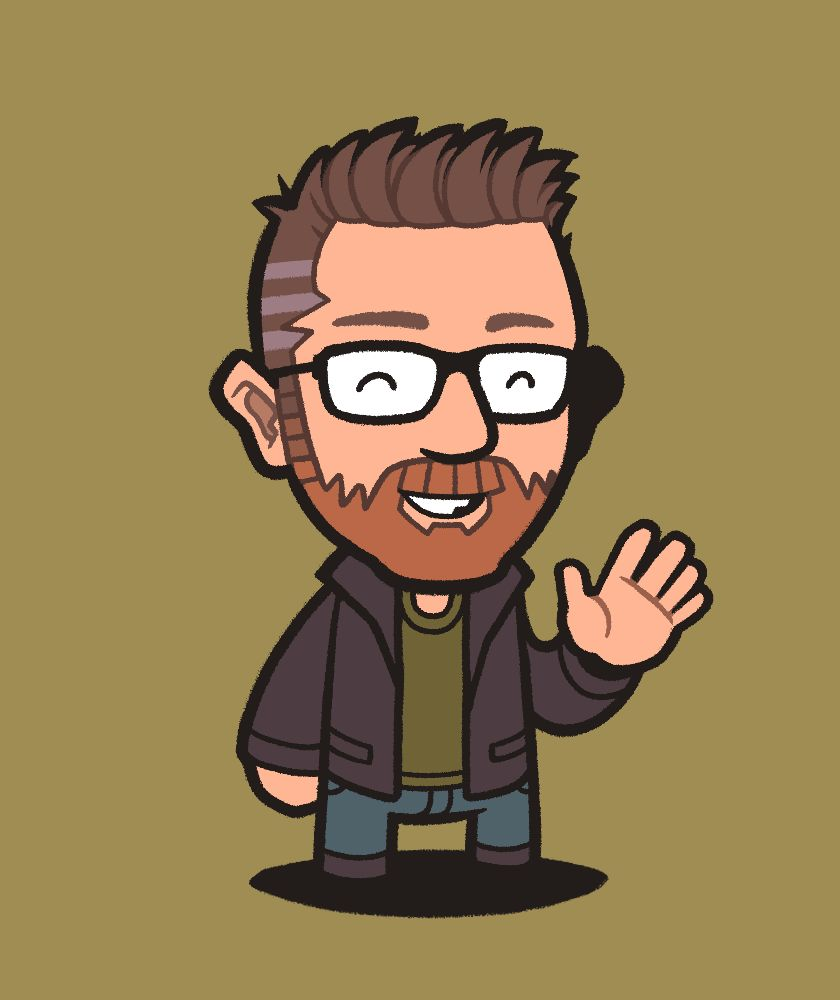
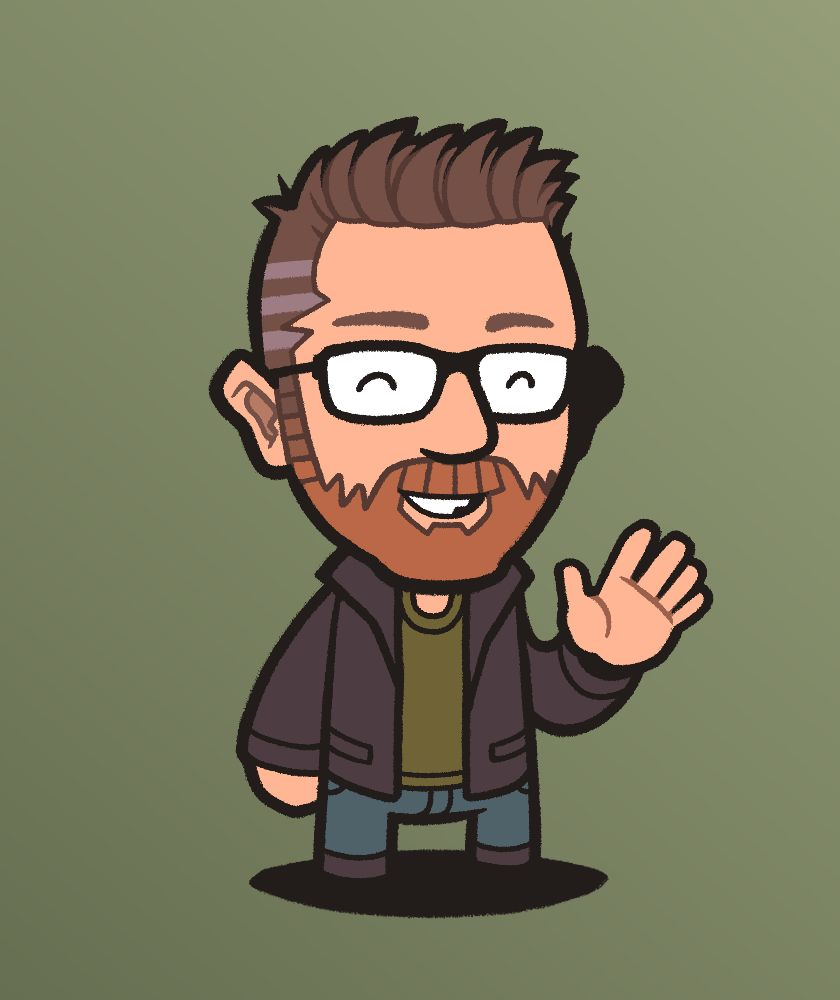
Update color scheme

diff --git a/component-library/shared/styles/0-settings/_B_color-scheme.scss b/component-library/shared/styles/0-settings/_B_color-scheme.scss
@@ -1,6 +1,6 @@
 /* Color Scheme */
-$primary-color: #1495a7;
-$secondary-color: #003687;
+$primary-color: #8f9d65;
+$secondary-color: #636f44;
 $white: #fff;
 $dark: #110E38;
 $gray: #d9d9d9;